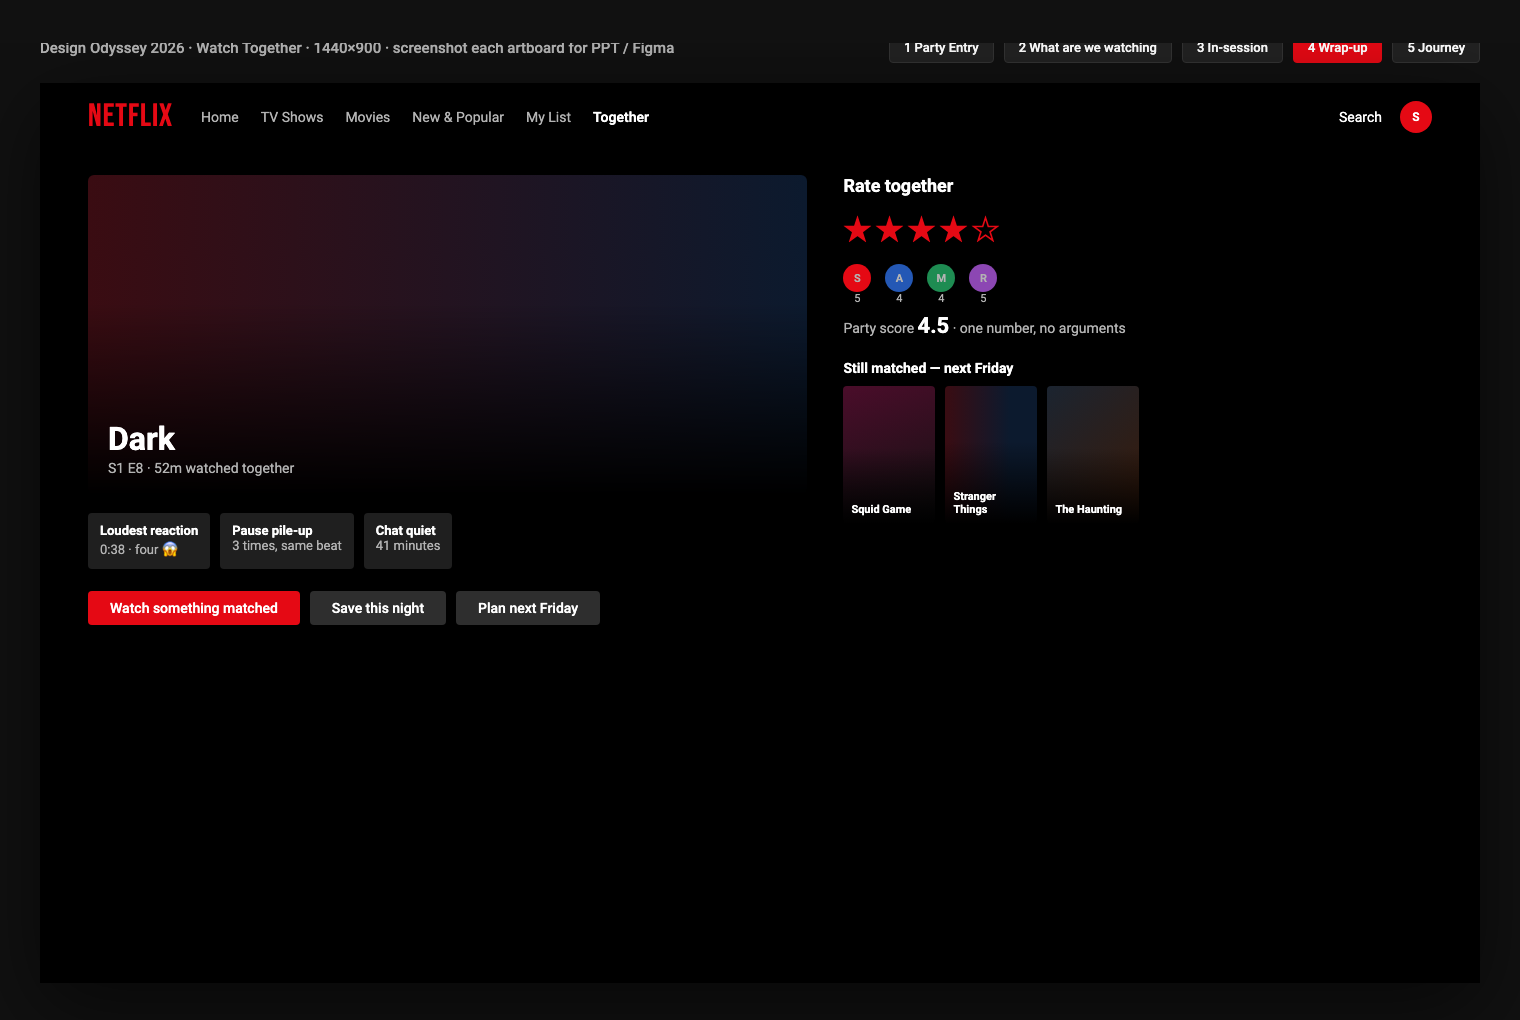
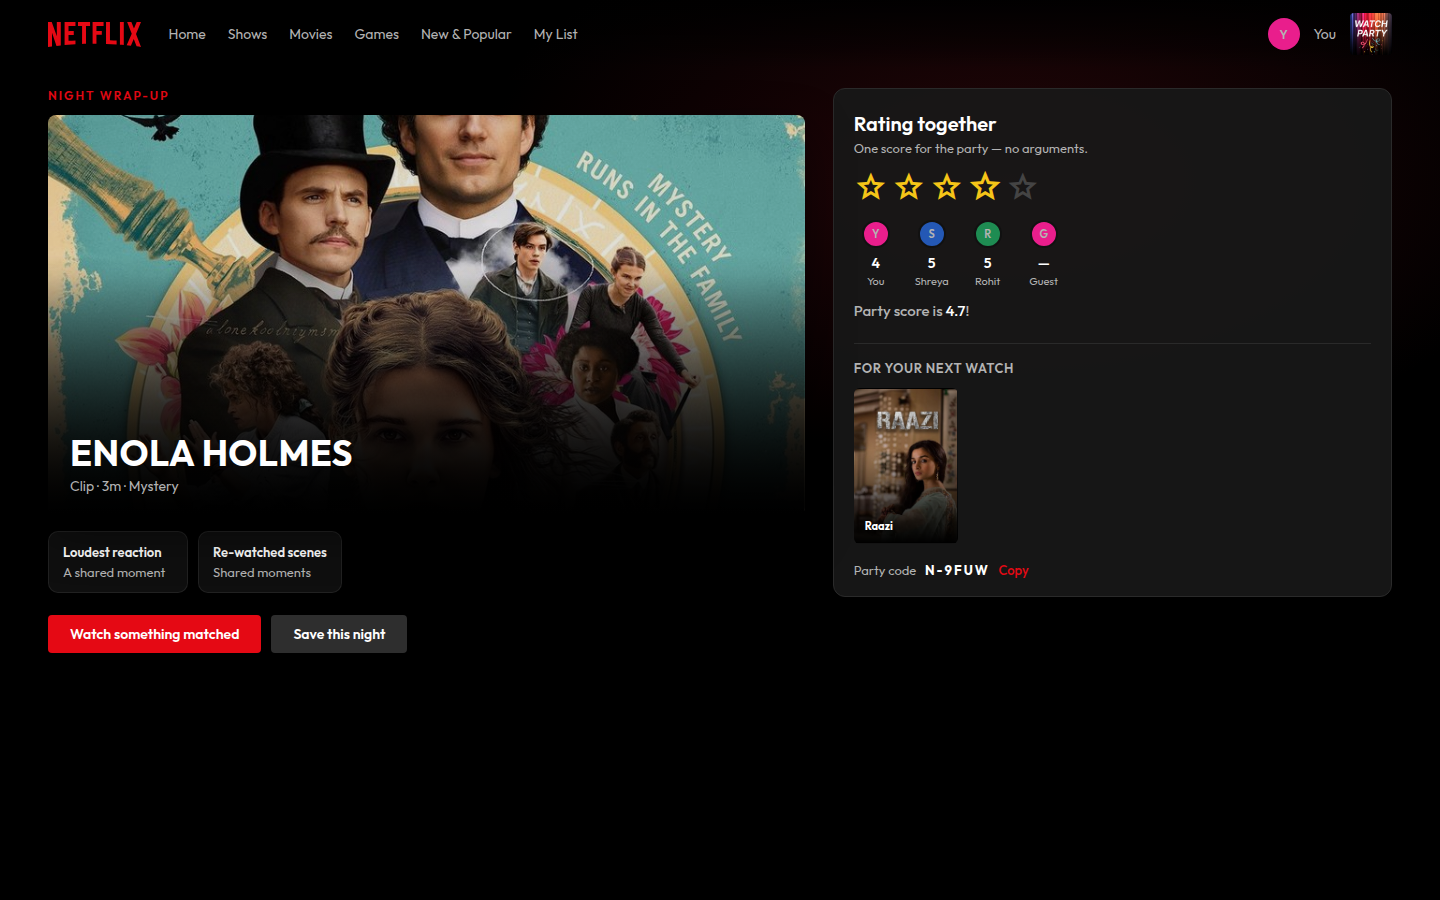
Make the first-run party demo clear
Move the couch off burned-in dialogue, name a second browser Guest, and explain a missing Git LFS clip. The README now says what Title Match is, who it is for, and how to run it, with screenshots of this build.

diff --git a/js/player.js b/js/player.js
@@ -2,6 +2,7 @@ import { SAMPLE_VIDEO, SAMPLE_CHAT, formatTime, memberInitial, videoForTitle } f
 
 export function createPlayerUI({ root, client, titlesById, onEnd, onBack }) {
   const video = root.querySelector('video');
+  const videoError = root.querySelector('[data-video-error]');
   const syncEl = root.querySelector('[data-sync]');
   const quietBtn = root.querySelector('[data-quiet]');
   const reactBar = root.querySelector('[data-react-bar]');
@@ -62,6 +63,8 @@ export function createPlayerUI({ root, client, titlesById, onEnd, onBack }) {
     video.src = SAMPLE_VIDEO;
     video.playsInline = true;
     video.volume = volumeLevel;
+    video.addEventListener('error', () => setVideoError(true));
+    video.addEventListener('loadeddata', () => setVideoError(false));
   }
 
   function wakeChrome(sticky = false) {
@@ -88,8 +91,13 @@ export function createPlayerUI({ root, client, titlesById, onEnd, onBack }) {
     return Date.now() < ignoreUntil;
   }
 
+  function setVideoError(on) {
+    if (videoError) videoError.hidden = !on;
+  }
+
   function loadTitleVideo(title, seekTo = 0, paused = true, rate = 1) {
     if (!video || !title) return;
+    setVideoError(false);
     const gen = ++loadGen;
     const src = videoForTitle(title);
     const abs = new URL(src, location.origin).href;
@@ -287,7 +295,12 @@ export function createPlayerUI({ root, client, titlesById, onEnd, onBack }) {
     if (seededChat) return;
     seededChat = true;
     if (chatLog.length) return;
-    SAMPLE_CHAT.forEach((msg) =>
+    const names = new Set(
+      (client.party?.members || [])
+        .filter((m) => m.status !== 'invited')
+        .map((m) => m.name)
+    );
+    SAMPLE_CHAT.filter((msg) => names.has(msg.name)).forEach((msg) =>
       appendChat({
         ...msg,
         id: `sample-${msg.memberId}`,

diff --git a/styles.css b/styles.css
@@ -784,6 +784,26 @@ input:focus-visible {
   object-fit: contain;
   background: #000;
 }
+.video-fallback {
+  position: absolute;
+  inset: 0;
+  z-index: 2;
+  display: grid;
+  place-content: center;
+  gap: 8px;
+  padding: 32px 24px;
+  text-align: center;
+  background: rgba(0, 0, 0, .82);
+  color: #fff;
+}
+.video-fallback[hidden] { display: none; }
+.video-fallback p { max-width: 420px; line-height: 1.45; }
+.video-fallback .video-fallback-title { font-size: 18px; font-weight: 700; }
+.video-fallback code {
+  font-family: ui-monospace, SFMono-Regular, Menlo, Consolas, monospace;
+  font-size: 13px;
+  color: #fff;
+}
 .presence {
   position: absolute;
   top: 20px;
@@ -873,20 +893,20 @@ input:focus-visible {
 
 .couch {
   position: absolute;
-  left: 50%;
-  bottom: 28px;
-  transform: translateX(-50%);
+  left: 24px;
+  bottom: 200px;
   z-index: 6;
   display: inline-flex;
   align-items: center;
   gap: 12px;
+  max-width: calc(100% - 48px);
   padding: 8px 18px 8px 10px;
   border-radius: 999px;
   background: rgba(210, 210, 210, .55);
   box-shadow: 0 10px 28px rgba(0,0,0,.35);
   pointer-events: auto;
   opacity: .45;
-  transition: opacity .25s ease, bottom .25s ease, background .25s ease;
+  transition: opacity .25s ease, background .25s ease;
 }
 .couch .avatar-row .avatar {
   width: 28px;
@@ -952,7 +972,15 @@ input:focus-visible {
 .player.is-awake .react-bar { background: rgba(20,20,20,.75); }
 .player.is-awake .couch {
   background: rgba(210, 210, 210, .92);
-  bottom: 118px;
+}
+@media (max-width: 700px) {
+  .couch,
+  .player.is-awake .couch {
+    top: 176px;
+    bottom: auto;
+    left: 16px;
+    max-width: calc(100% - 32px);
+  }
 }
 .player.is-awake .chrome {
   opacity: 1;

diff --git a/server/rooms.js b/server/rooms.js
@@ -115,20 +115,31 @@ function phaseStatus(room) {
   return 'swiping';
 }
 
+function displayName(room, id, name) {
+  const base = String(name || 'Guest').trim() || 'Guest';
+  const taken = (n) => room.members.some((m) => !m.left && m.id !== id && m.name === n);
+  if (!taken(base)) return base;
+  if (base === 'You' && !taken('Guest')) return 'Guest';
+  let i = 2;
+  while (taken(`${base} ${i}`)) i += 1;
+  return `${base} ${i}`;
+}
+
 function joinRoom(code, { id, name, color }) {
   const room = getRoom(code);
   if (!room) return { error: 'Party not found' };
   clearTimeout(room.cleanupTimer);
   const existing = room.members.find((m) => m.id === id);
+  const resolved = displayName(room, id, name);
   if (existing) {
     existing.left = false;
-    existing.name = name || existing.name;
+    existing.name = resolved;
     existing.color = color || existing.color;
     if (existing.status !== 'invited') existing.status = phaseStatus(room);
   } else {
     room.members.push({
       id,
-      name: name || 'Guest',
+      name: resolved,
       color: color || '#2458b5',
       status: phaseStatus(room),
       isBot: false,

diff --git a/js/local-party.js b/js/local-party.js
@@ -124,19 +124,30 @@ function phaseStatus(room) {
   return 'swiping';
 }
 
+function displayName(room, id, name) {
+  const base = String(name || 'Guest').trim() || 'Guest';
+  const taken = (n) => room.members.some((m) => !m.left && m.id !== id && m.name === n);
+  if (!taken(base)) return base;
+  if (base === 'You' && !taken('Guest')) return 'Guest';
+  let i = 2;
+  while (taken(`${base} ${i}`)) i += 1;
+  return `${base} ${i}`;
+}
+
 function joinRoom(code, { id, name, color }) {
   const room = getRoom(code);
   if (!room) return { error: 'Party not found' };
   const existing = room.members.find((m) => m.id === id);
+  const resolved = displayName(room, id, name);
   if (existing) {
     existing.left = false;
-    existing.name = name || existing.name;
+    existing.name = resolved;
     existing.color = color || existing.color;
     if (existing.status !== 'invited') existing.status = phaseStatus(room);
   } else {
     room.members.push({
       id,
-      name: name || 'Guest',
+      name: resolved,
       color: color || '#2458b5',
       status: phaseStatus(room),
       isBot: false,

diff --git a/js/swipe.js b/js/swipe.js
@@ -132,10 +132,16 @@ export function createSwipeUI({ root, client, titlesById, onStartWatch }) {
     const startLabel = topTitle
       ? `Start with ${topTitle.title}`
       : 'Need 2 matches to start';
+    const othersSwiping = party.members.some(
+      (m) => m.id !== client.member.id && m.status !== 'invited'
+    );
+    const emptyCopy = othersSwiping
+      ? 'Swipe hearts together — two matches land here. Agree in under a minute.'
+      : 'You’re the only one swiping. Invite someone online (green), or share the code so a friend can match with you.';
 
     railEl.innerHTML = `
       <h4>Matched Tonight</h4>
-      <div class="rail-hits">${hits || '<p class="rail-empty">Swipe hearts together — two matches land here. Agree in under a minute.</p>'}</div>
+      <div class="rail-hits">${hits || `<p class="rail-empty">${esc(emptyCopy)}</p>`}</div>
       <button type="button" class="btn btn-red start-bar" data-start-top ${topTitle ? '' : 'disabled'}>${esc(startLabel)}</button>
     `;
 

diff --git a/js/app.js b/js/app.js
@@ -62,7 +62,15 @@ function setNavProfile(name, color, kind = 'user') {
   });
 }
 
+function applySelf(party) {
+  const me = party?.members?.find((m) => m.id === client.member.id);
+  if (!me?.name || me.name === client.member.name) return;
+  client.setProfileName(me.name, client.member.color);
+  setNavProfile(me.name, client.member.color, navKindFor({ name: me.name }));
+}
+
 function enterPhase(party) {
+  applySelf(party);
   const phase = party?.phase || 'match';
   renderJoinCode(party);
   if (phase === 'watch') {
@@ -328,6 +336,7 @@ client.on((event, payload) => {
   if (event === 'party:state' || event === 'swipe:update' || event === 'match:added') {
     const party = payload?.state || payload || client.party;
     if (!party) return;
+    applySelf(party);
     renderJoinCode(party);
     if (event === 'swipe:update' && payload?.memberId && payload.memberId !== client.member.id) {
       swipeUI.noteFriendSwipe(payload);

diff --git a/index.html b/index.html
@@ -136,6 +136,10 @@
   <section class="screen" id="watch" aria-label="Watch session" aria-hidden="true">
     <div class="player">
       <video playsinline preload="metadata"></video>
+      <div class="video-fallback" data-video-error hidden>
+        <p class="video-fallback-title">This clip didn’t load.</p>
+        <p>The party videos live in Git LFS. From the project folder run <code>git lfs pull</code>, then refresh.</p>
+      </div>
       <div class="subtitle-overlay" data-subs aria-live="polite"></div>
       <div class="presence">
         <button type="button" class="player-back" data-back title="Back to matching">

diff --git a/README.md b/README.md
@@ -1,24 +1,25 @@
-# Watch Together — Hackathon Demo
+# Watch Together
 
-Netflix-style **Watch Together** prototype: pick Watch Party → **Party mood** → invite friends → **Title Match** swipe → synced playback with **Quiet (spoiler-safe)** → rate the night.
+Friends agree on a title in under a minute, then watch it on the same playhead. This is a Netflix-style hackathon demo of two things:
 
-Vanilla HTML/CSS/JS frontend + **Express + Socket.io** backend (in-memory party rooms).
+- **Title Match** — everyone swipes the same mood-filtered deck. Two Match votes put a title on **Matched Tonight**. The host starts from that rail. No group-chat vote.
+- **Synced party playback** — play, pause, and seek stay together across browsers. Reactions, party chat, **Quiet (spoiler-safe)**, and one shared rating wrap the night.
 
-**Finale thesis:** *Tonight is a match, not a debate.* Full pitch, timed demo, and Q&A: see **[PITCH.md](PITCH.md)**.
+It is a front-end plus a small party server. Short clips stand in for licensed streams. The app does not sign in to Netflix, and it does not need an account.
 
-## Live demo
+![Title Match: swipe a mood-filtered deck until two people match](screenshots/02-match.png)
 
-**Judges — open this and play:** [https://siddco17.github.io/watch-together/](https://siddco17.github.io/watch-together/)
+## Who it’s for
 
-No install. In the browser:
+A group that opens Netflix and stalls on what to watch. This repo is the runnable demo of that decision, then the couch.
 
-1. **Watch Party** → pick a **Party mood** → **Start Party**
-2. Swipe pass / later / match
-3. **Start with…** → reactions, Quiet, **End night**
+## Try it
 
-The hosted demo runs fully in the browser (bots still fill Matched Tonight). Two-device sync still needs `npm start` on a laptop.
+**In the browser (no install):** [siddco17.github.io/watch-together](https://siddco17.github.io/watch-together/)
 
-## On another laptop
+That hosted demo runs Title Match, bots, playback, Quiet, and wrap-up in one browser. Two-device sync needs the local server below.
+
+**On your machine** (about ten minutes, including the walkthrough):
 
 ```bash
 git clone https://github.com/siddco17/watch-together.git
@@ -26,48 +27,52 @@ cd watch-together
 git lfs install
 git lfs pull
 npm install
-```
-
-Need [Node.js 18+](https://nodejs.org) and [Git LFS](https://git-lfs.com) (the clips are stored with LFS).
-
-**Start for a presentation**
-
-- Mac: double-click **Start Demo.command**
-- Windows: double-click **Start Demo.bat**
-- Or in a terminal: `npm run present`
-
-That starts the server and opens [http://localhost:3000](http://localhost:3000).
-
-**Clickable opener:** double-click **Watch Together.html**. If the demo is already running it jumps straight in; if not, use Start Demo first, then click **Open presentation**.
-
-Leave the Start Demo window open during the pitch. Close it to stop.
-
-## Run (terminal)
-
-```bash
-npm install
 npm start
 ```
 
+Need [Node.js 18+](https://nodejs.org) and [Git LFS](https://git-lfs.com). The clips in `media/clips/` are LFS files. If a clip doesn’t load, the player says so — run `git lfs pull` and refresh.
+
 Open [http://localhost:3000](http://localhost:3000).
 
-## Judge demo (one laptop) — aim for play in &lt;90s
+**Presentation launchers** (start the server and open the browser):
+
+- Mac: double-click **Start Demo.command**
+- Windows: double-click **Start Demo.bat**
+- Or: `npm run present`
+
+Leave that window open. Close it to stop.
+
+**Clickable opener:** double-click **Watch Together.html**. If the server is already running it jumps in. If not, start the demo first, then click **Open presentation**.
+
+## Walkthrough
 
 1. **Who's Watching?** → **Watch Party**
-2. Pick **Party mood** (Comfort / Thrills / New this week)
-3. **Add** 2–3 friends → **Start Party**
-4. Swipe: pass / later / match (bots help fill **Matched Tonight**)
-5. **Start with…** → reactions · **Quiet · spoiler-safe**
-6. **End night** → party score · next-watch leftovers
+2. Pick a **Party mood** (Comfort / Thrills / New this week, and the other chips)
+3. **Invite** one or two friends with a green dot (they swipe with you). Grey is offline (**Invited**). Red is **Busy**.
+4. **Start Party**. Swipe pass / later / match. Bots help fill **Matched Tonight**.
+5. **Start with…** → reactions, **Quiet · spoiler-safe**, then **End night**
+6. Rate together. One party score. Leftovers stay for next time.
+
+If you start alone, the rail tells you to invite someone online or share the party code. A title needs two Match votes.
 
 ## Two-browser sync
 
-1. Host: Start Party and copy the code on the match header
-2. Guest: Watch Party → paste code → **Join**
-3. Shared rail, playback, chat, ratings
+1. Host: **Start Party** and copy the code on the match header (`N-····`)
+2. Guest, in another browser: **Watch Party** → paste the code → **Join**
+3. Both see the same rail, playhead, chat, and rating. The guest shows up as **Guest** so the couch isn’t two people named You.
+
+## What the pieces are
+
+| Piece | Where it shows |
+|---|---|
+| Party mood | Chips before Start Party. The server builds the deck from titles tagged with that vibe. |
+| Title Match | Parallel swipes. ≥2 Match votes land on Matched Tonight. |
+| Quiet | On by default: reactions stay low and chat stays closed. Off opens party chat. |
+| Party server | Express + Socket.io, in-memory rooms, invite codes. Vanilla HTML/CSS/JS in the browser. |
+
+Full pitch, timed demo, and Q&A: **[PITCH.md](PITCH.md)**.
 
 ## Local media
 
-Posters live in `media/posters/` (Enola Holmes, Always Be My Maybe, The Adam Project, Red Notice, Raazi, Voicemails).  
-Clips in `media/clips/` (Enola Holmes, Always Be My Maybe, The Adam Project, Red Notice, Raazi, Voicemails).  
-MP4s in `media/clips/` are stored with **Git LFS** — after cloning, run `git lfs pull` if the videos are missing.
+Posters: `media/posters/` (Enola Holmes, Always Be My Maybe, The Adam Project, Red Notice, Raazi, Voicemails).  
+Clips: `media/clips/` for those same titles. Stored with Git LFS.
